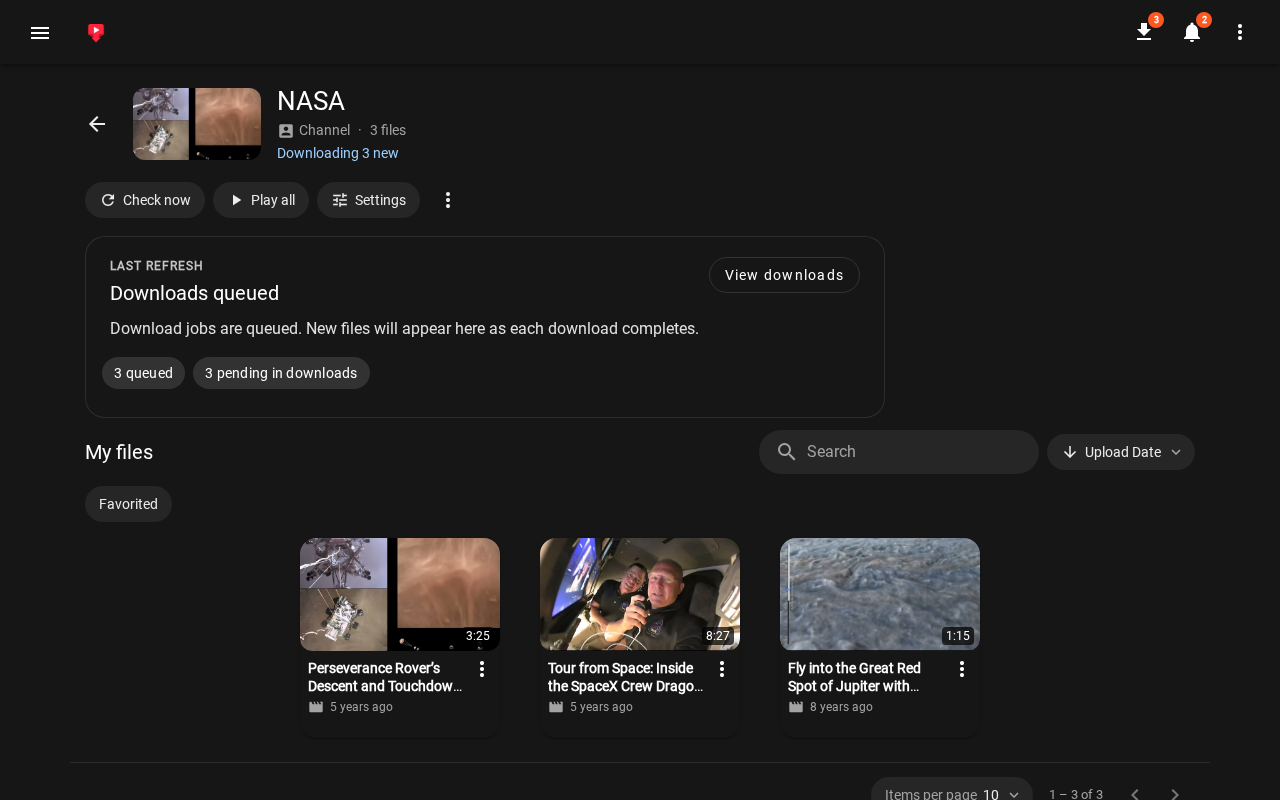
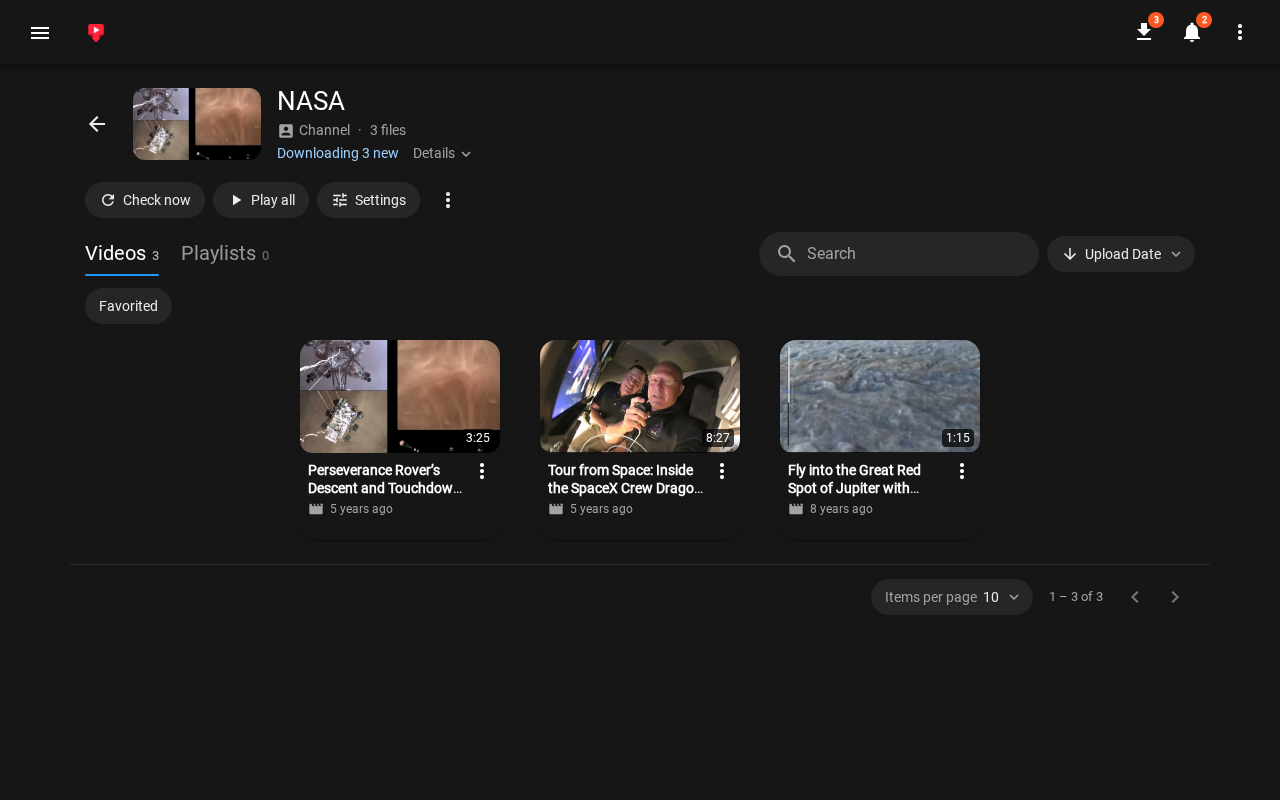
docs(gallery): refresh the subscription, library and player screenshots

diff --git a/docs/gallery.md b/docs/gallery.md
@@ -28,7 +28,7 @@ ytdl-material in a desktop browser and on a phone. Select a screenshot to see it
 </figure>
 
 <figure markdown="span">
-[![A channel subscription's page: the status of its last check, three queued downloads, and the files downloaded so far](images/gallery/desktop-subscription.png){ width="1280" height="800" loading="lazy" }](images/gallery/desktop-subscription.png)
+[![A channel subscription's page: downloading three new videos, with the check's details folded away and its videos and playlists under separate tabs](images/gallery/desktop-subscription.png){ width="1280" height="800" loading="lazy" }](images/gallery/desktop-subscription.png)
 <figcaption>One subscription, mid-check</figcaption>
 </figure>
 
